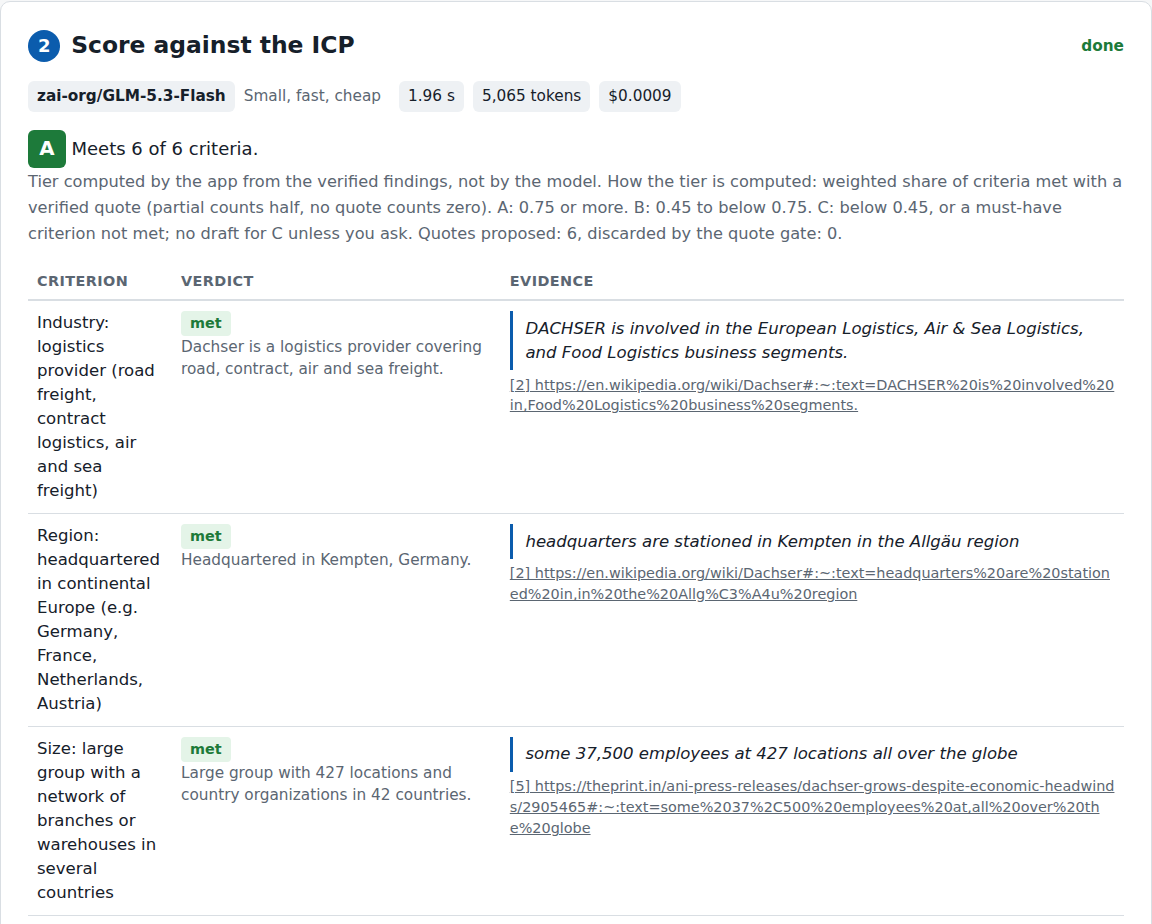
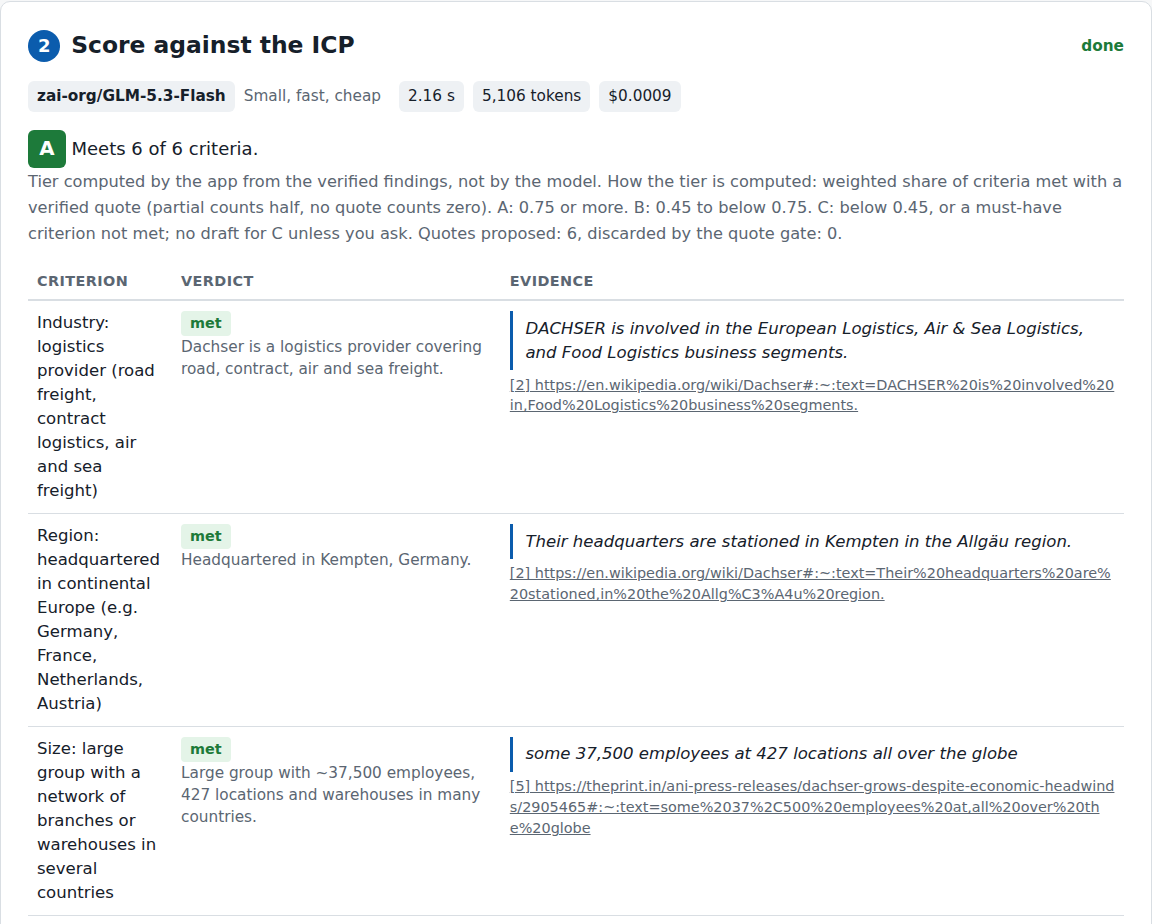
Final fixes: draft language label, timing line, lead-list size note, new replay
- "Email language" -> "Draft language"
- /live subtitle uses the shared timing sentence
- Slide: size is not scored in the lead list
- /script 1:25: GLM 5.3 writes, with Kimi K3 as fallback
- Replay re-recorded: dachser.de, tier A, written by GLM-5.3, avoid list does not
  contradict a verified quote; 14 s, $0.08, call opener of 58 words; new demo image

Claude-Session: https://claude.ai/code/session_01SWiEVMphKiCKXJ5YPcfxXr

diff --git a/static/script.html b/static/script.html
@@ -54,7 +54,7 @@
 <p class="do">Langsam durch Schritt 3 (auf „Channel“ zeigen) und Schritt 4 rollen. Bei „draft only“ auf die Zeile unter dem Textfeld zeigen.</p></div>
 
 <div class="card"><div class="t">1:25</div>
-<p class="say">Three open models on Nebius Token Factory. GLM 5.3 Flash scores: small, cheap, and the code checks it anyway. Kimi K3 plans. GLM 5.3 writes. We measured the scoring models on twelve real companies. GLM Flash lost three percent of its quotes, GPT OSS 120b twenty-nine. GPT OSS was faster, but we chose the model that quotes correctly.</p>
+<p class="say">Three open models on Nebius Token Factory. GLM 5.3 Flash scores: small, cheap, and the code checks it anyway. Kimi K3 plans. GLM 5.3 writes, with Kimi K3 as fallback. We measured the scoring models on twelve real companies. GLM Flash lost three percent of its quotes, GPT OSS 120b twenty-nine. GPT OSS was faster, but we chose the model that quotes correctly.</p>
 <p class="do">Klick „Models and why“ oben (springt zur Tabelle). Mit der Maus die drei Modellzeilen entlang, dann zur Vergleichstabelle darunter, auf die Spalte „Quotes discarded“ zeigen.</p></div>
 
 <div class="card"><div class="t">1:50</div>
@@ -88,7 +88,7 @@
   gpt-oss-120b: 100% valid JSON, 29% of 35 quotes thrown out, 1.8 s, $0.00057 per company.
   Nemotron-3_5-Lightning: 0% valid JSON.
 - A full live run (research, score, plan, draft): usually 15 to 25 seconds; the slowest run we measured took 46; 6 to 9 cents with web research.
-  Recorded example: dachser.de, tier A in 23 s for $0.09, 0 of 6 quotes thrown out, German call opener.
+  Recorded example: dachser.de, tier A in 14 s for $0.08, 0 of 6 quotes thrown out, German call opener of 58 words.
 - Lead list of 40 real UK cold-chain companies (scored earlier with gpt-oss-120b at default reasoning):
   121 quotes checked, 4 thrown out.
 

diff --git a/static/slides.html b/static/slides.html
@@ -89,7 +89,7 @@ fetch("/api/live/config").then((r) => r.json()).then((c) => {
   <h2>Before / after</h2>
   <div class="cols">
     <div class="box"><strong>Before</strong>An SDR opens the website, LinkedIn and news in ten tabs, skims, guesses the fit and writes from memory. Manual research: several tabs per company (not timed). Claims in the email cannot be traced.</div>
-    <div class="box us"><strong>After</strong><!--AFTER-->Types the company. Reads four steps, clicks the quotes, edits the draft, decides. Recorded run (dachser.de, European logistics profile): Tier A in 23 s for $0.09, model calls plus web research, 0 of 6 quotes rejected; phone recommended, German call opener of 52 words. Companies that do not fit are stopped before anyone writes.<!--/AFTER--></div>
+    <div class="box us"><strong>After</strong><!--AFTER-->Types the company. Reads four steps, clicks the quotes, edits the draft, decides. Recorded run (dachser.de, European logistics profile): Tier A in 14 s for $0.08, model calls plus web research, 0 of 6 quotes rejected; phone recommended, German call opener of 58 words. Companies that do not fit are stopped before anyone writes.<!--/AFTER--></div>
   </div>
 </section>
 
@@ -125,7 +125,7 @@ fetch("/api/live/config").then((r) => r.json()).then((c) => {
   <h2>Next steps</h2>
   <ul>
     <li>Batch mode: score 50 companies with the small model, plan and write only for tier A.</li>
-    <li>Get company size from a source that has it; today the real dataset has no size data, so size is not scored.</li>
+    <li>Get company size from a source that has it; today the real dataset has no size data, so in the lead list, size is not scored.</li>
     <li>Hand A-tier leads to a Needle campaign as drafts for human review.</li>
     <li>Learn from won and lost deals to adjust criteria weights.</li>
   </ul>

diff --git a/static/live.html b/static/live.html
@@ -11,7 +11,7 @@
   <div>
     <h1>Is this company worth an email?</h1>
     <p class="sub">A yes or no you can check. Quotes that are not in the source are thrown out, visibly.</p>
-    <p class="sub2">Type any company. In 15 to 25 seconds as a rule (6 to 9 cents with web research; the slowest run we measured took 46): a fit verdict, one sourced reason to reach out, a first draft. Every verdict needs a word-for-word quote. Nothing is sent.</p>
+    <p class="sub2">Type any company. Usually 15 to 25 seconds; the slowest run we measured took 46; 6 to 9 cents with web research. You get a fit verdict, one sourced reason to reach out, a first draft. Every verdict needs a word-for-word quote. Nothing is sent.</p>
   </div>
   <div class="top-right">
     <span class="motto">Agent drafts, a person decides.</span>

diff --git a/static/live.js b/static/live.js
@@ -130,7 +130,7 @@ function renderPlan(r) {
     <dt>Channel</dt><dd>${linkRefs(p.channel)}</dd>
     <dt>Do not say</dt><dd><ul>${list(p.avoid).map((a) => `<li>${linkRefs(typeof a === "object" ? JSON.stringify(a) : a)}</li>`).join("")}</ul></dd>
     <dt>Discovery question</dt><dd>${list(p.questions).map(linkRefs).join("<br>")}</dd>
-    <dt>Email language</dt><dd>${esc(r.language)}</dd></dl>${checks(r.checks)}`;
+    <dt>Draft language</dt><dd>${esc(r.language)}</dd></dl>${checks(r.checks)}`;
 }
 
 // Check line over the draft, computed in the browser: words, questions, sourced facts.

diff --git a/README.md b/README.md
@@ -19,8 +19,8 @@ An SDR or founder doing outbound. Before: ten tabs per company, a guess, an emai
 After: one input, a verdict with quotes that can be checked in one click, and a draft that opens with
 one sourced fact. Companies that do not fit are stopped before anyone writes to them.
 Time and cost per company: usually 15 to 25 seconds; the slowest run we measured took 46; 6 to 9 cents with web research (totals line of each run; measured per run, not a benchmark).
-Recorded example (`data/live_example.json`, dachser.de, European logistics profile): Tier A in 23 s for $0.09
-(model calls $0.057 plus 4 Tavily credits), 0 of 6 quotes rejected, phone recommended, German call opener of 52 words.
+Recorded example (`data/live_example.json`, dachser.de, European logistics profile): Tier A in 14 s for $0.08
+(model calls $0.053 plus 4 Tavily credits), 0 of 6 quotes rejected, phone recommended, German call opener of 58 words.
 
 ## Which model does which step, and why (summary)
 
